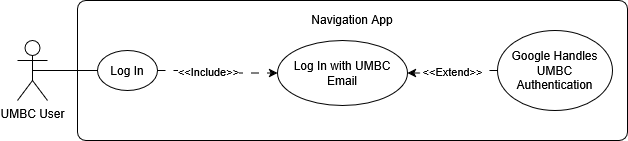
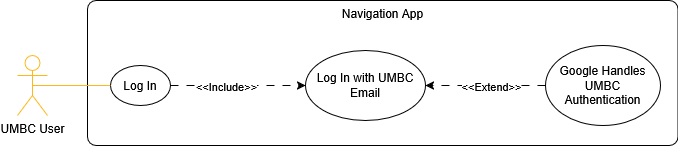
use cases, and admin
- Added my email to admin list
- Uploaded updated use case diagrams

diff --git a/front end/app/page.jsx b/front end/app/page.jsx
@@ -12,7 +12,8 @@ const NON_UMBC_ERROR_MESSAGE =
 
 const ADMIN_EMAILS = [
   'adenham112@gmail.com',
-  'csumah1@umbc.edu'
+  'csumah1@umbc.edu', 
+  'ermichalik1106@gmail.com'
   // Add more admin emails here if needed
 ]
 

diff --git a/front end/components/AdminDashboard.jsx b/front end/components/AdminDashboard.jsx
@@ -7,6 +7,7 @@ import MapRoutePage from "./MapRoutePage";
 const ADMIN_EMAILS = [
   "adenham112@gmail.com",
   'csumah1@umbc.edu',
+  'ermichalik1106@gmail.com'
   // Add more admin emails here
 ];
 
